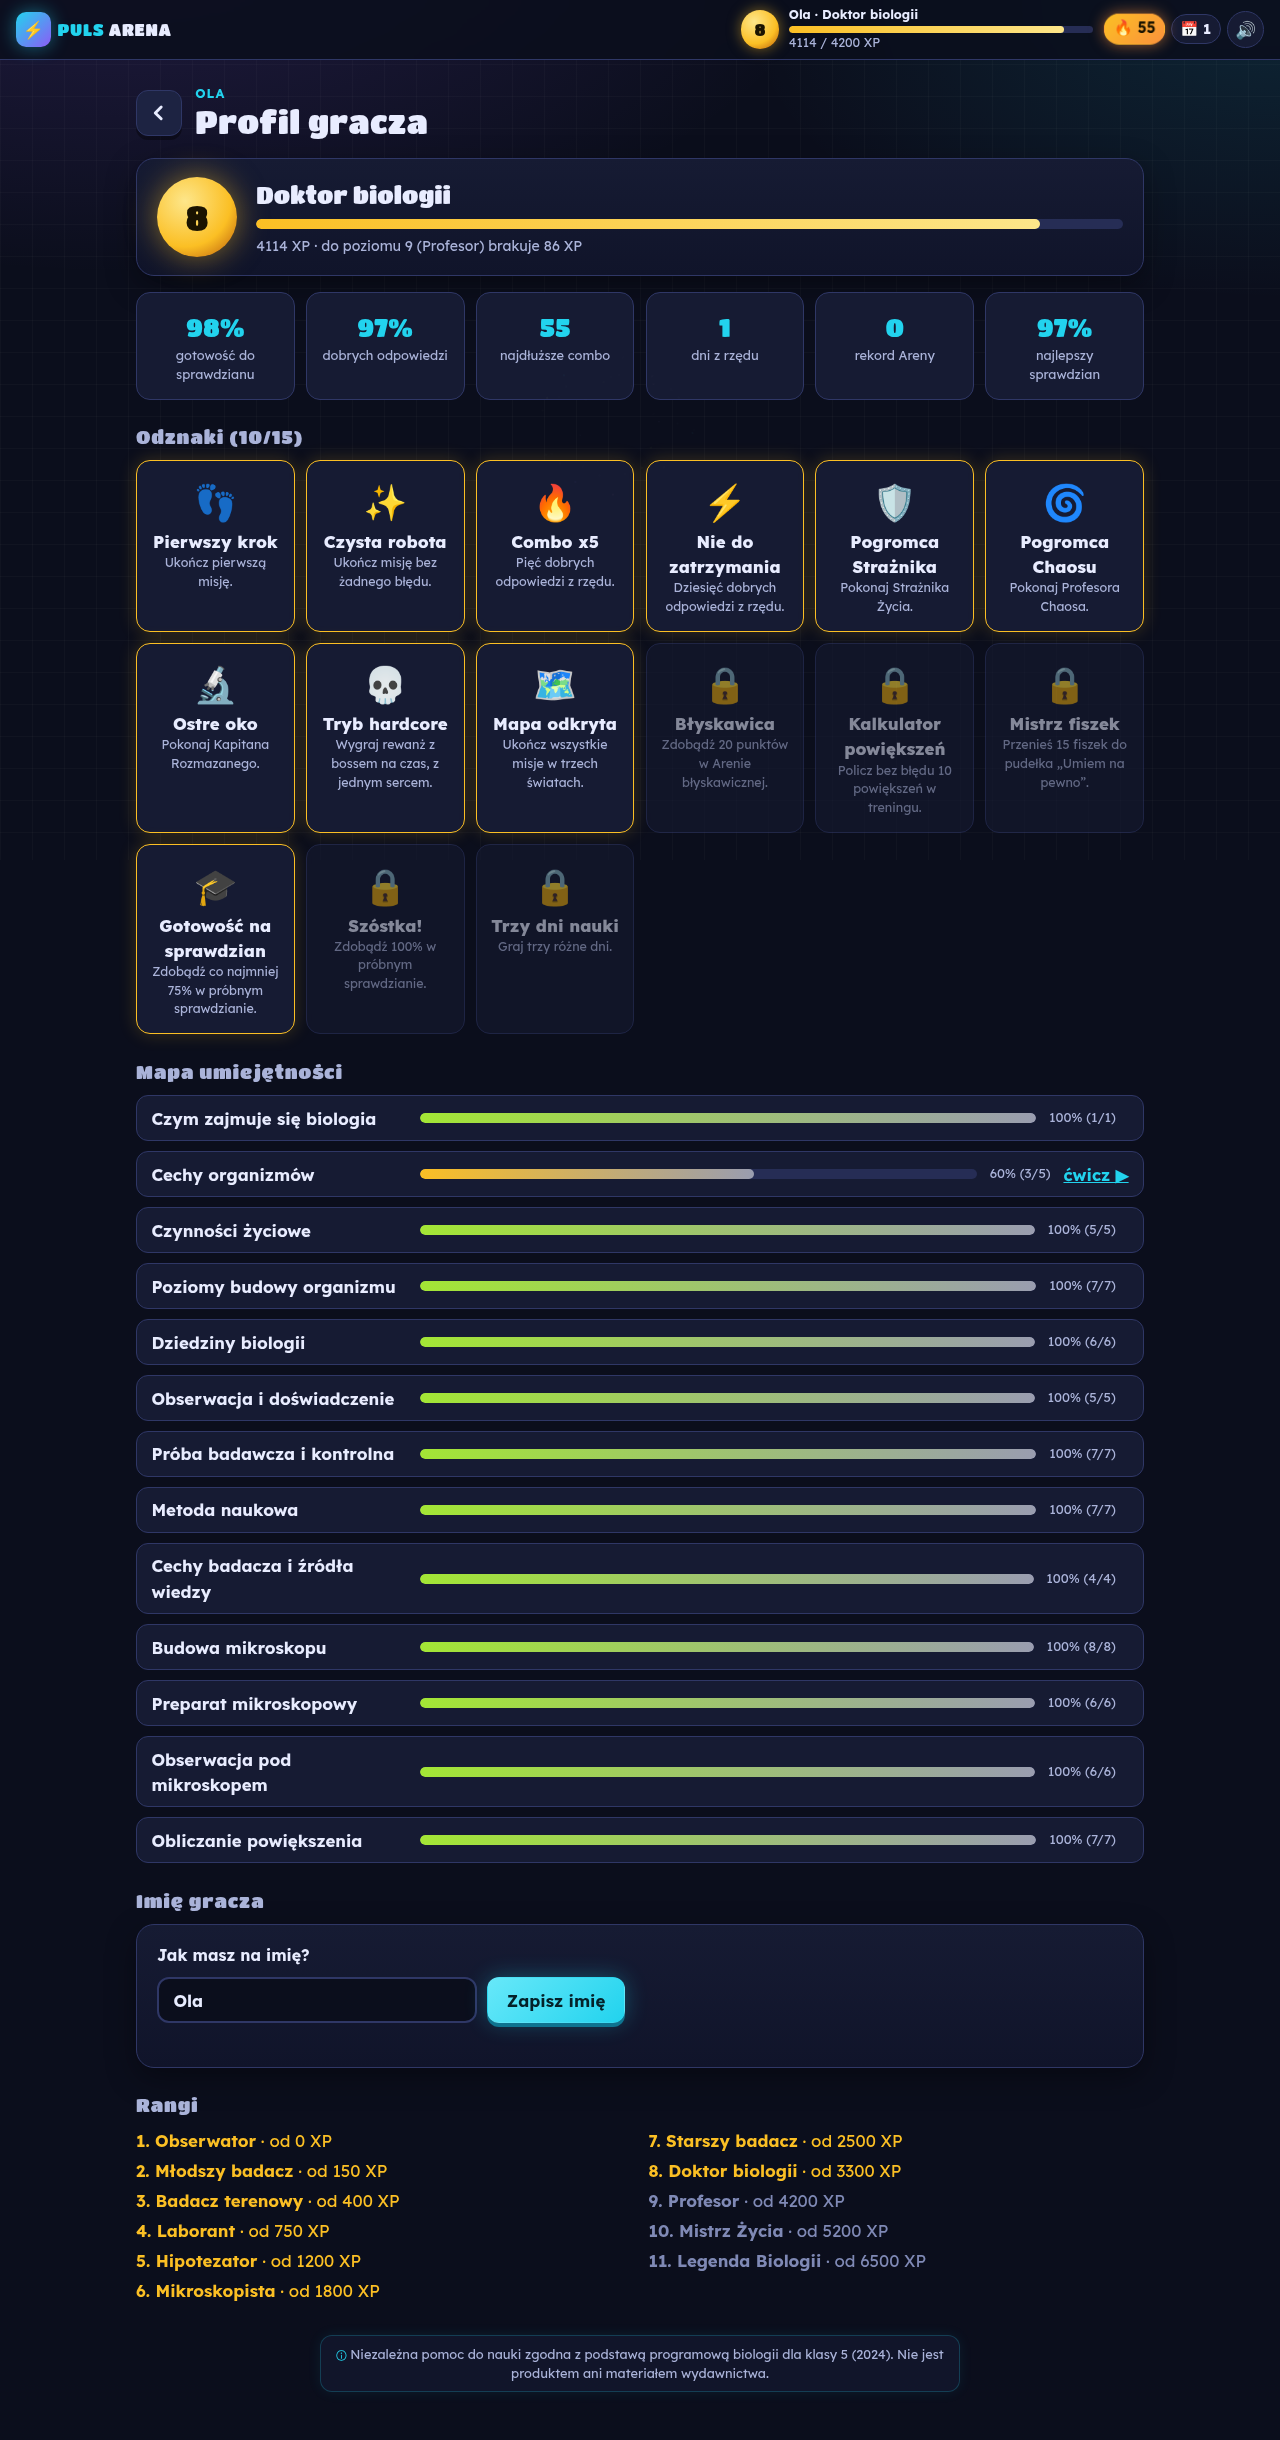
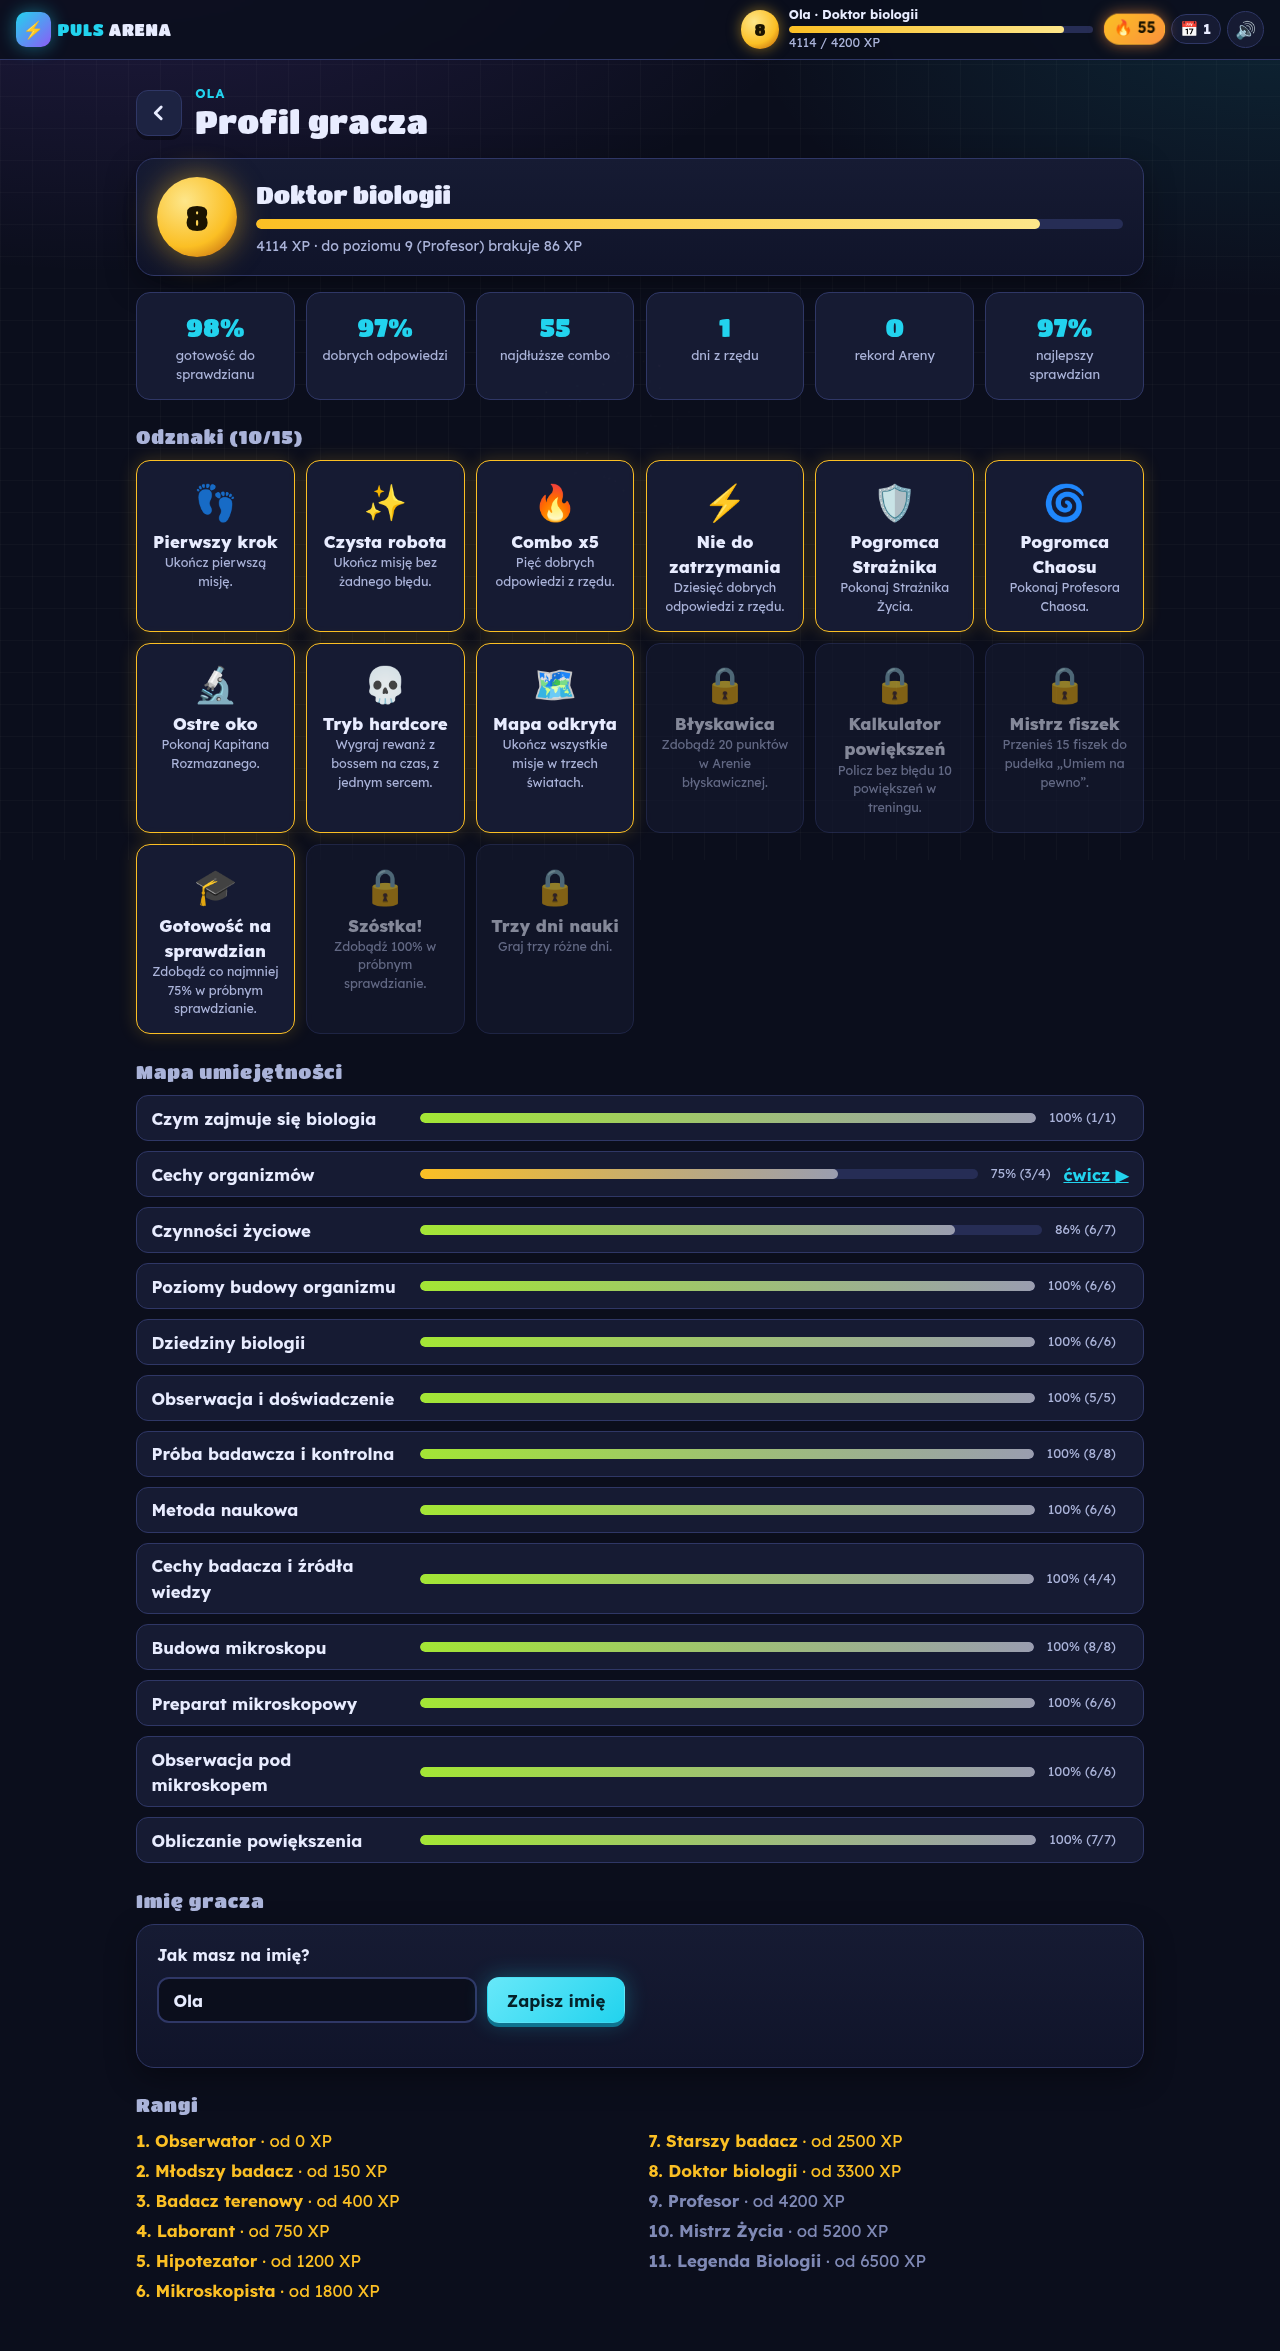
Usunięte stopki z mapy i profilu; wersja cc6e0cd571ac

diff --git a/docs/js/ekrany/mapa.js b/docs/js/ekrany/mapa.js
@@ -4,7 +4,7 @@ import { h } from '../core/dom.js';
 import { bossOdblokowany, misjeUkonczone, swiatOdblokowany } from '../core/gra.js';
 import { K, imieGracza, infoGracza } from '../kontekst.js';
 import SWIATY from '../../data/swiaty.js';
-import { gwiazdki, kafel, notaNiezaleznosci, pasekPostepu } from './wspolne.js';
+import { gwiazdki, kafel, pasekPostepu } from './wspolne.js';
 
 export function gotowosc(stan) {
   const misje = SWIATY.flatMap((s) => s.misje);
@@ -82,8 +82,6 @@ export function ekranMapy() {
       kafel({ href: '#/powtorka', ikona: '🧠', tytul: 'Powtórka', opis: 'Fiszki, pytania otwarte z kluczem, trening powiększeń, ściąga.', klasa: 'kafel--powtorka' }),
       kafel({ href: '#/profil', ikona: '🏅', tytul: 'Profil i odznaki', opis: `${Object.keys(stan.odznaki).length} odznak · mocne i słabe strony.`, klasa: 'kafel--profil' }),
     ]),
-    h('p', { class: 'stopka', tekst: 'Zadania obejmują dział I biologii dla klasy 5 (podstawa programowa 2024). Pytania i rysunki są własne.' }),
-    notaNiezaleznosci(),
   ]);
 }
 

diff --git a/docs/js/ekrany/profil.js b/docs/js/ekrany/profil.js
@@ -11,7 +11,7 @@ import ZADANIA from '../../data/zadania.js';
 import { SKALA } from '../../data/sprawdzian.js';
 import { WERSJA } from '../wersja.js';
 import { gotowosc } from './mapa.js';
-import { naglowek, notaNiezaleznosci, pasekPostepu } from './wspolne.js';
+import { naglowek, pasekPostepu } from './wspolne.js';
 
 function statystyka(wartosc, opis) {
   return h('div', { class: 'stat' }, [h('span', { class: 'stat__wartosc', tekst: String(wartosc) }), h('span', { class: 'stat__opis', tekst: opis })]);
@@ -72,7 +72,6 @@ export function ekranProfilu() {
     h('div', { class: 'karta' }, [formularzImienia({ przycisk: 'Zapisz imię', poZapisie: () => dispatchEvent(new HashChangeEvent('hashchange')) })]),
     h('h2', { class: 'sekcja__tytul', tekst: 'Rangi' }),
     h('ol', { class: 'rangi' }, RANGI.map((r, i) => h('li', { 'data-osiagnieta': String(stan.xp >= PROGI[i]) }, [h('strong', { tekst: `${i + 1}. ${r}` }), ` · od ${PROGI[i]} XP`]))),
-    notaNiezaleznosci(),
   ]);
 }
 

diff --git a/docs/css/baza.css b/docs/css/baza.css
@@ -436,33 +436,6 @@ main {
   background: linear-gradient(90deg, var(--zloto), #fde68a);
 }
 
-.stopka {
-  margin-top: 2rem;
-  font-size: 0.82rem;
-  color: var(--tekst-3);
-  text-align: center;
-}
-
-.nota-niezaleznosci {
-  max-width: 40rem;
-  margin: 0.75rem auto 0;
-  padding: 0.55rem 0.9rem;
-  border: 1px solid rgba(34, 211, 238, 0.22);
-  border-radius: var(--promien-maly);
-  background: rgba(22, 27, 51, 0.6);
-  box-shadow: 0 0 14px rgba(34, 211, 238, 0.08);
-  font-size: 0.8rem;
-  line-height: 1.45;
-  color: var(--tekst-2);
-  text-align: center;
-  overflow-wrap: break-word;
-}
-
-.nota-niezaleznosci::before {
-  content: 'ⓘ ';
-  color: var(--cyjan);
-}
-
 /* ---------- Powiadomienia, okna ---------- */
 
 .powiadomienia {
@@ -629,8 +602,4 @@ main {
 .przelacznik[aria-checked='true'] .przelacznik__galka::after {
   background: var(--cyjan);
   transform: translateX(1.4rem);
-}
-
-.ekran--profil .nota-niezaleznosci {
-  margin-top: 2rem;
 }

diff --git a/docs/js/ekrany/wspolne.js b/docs/js/ekrany/wspolne.js
@@ -41,10 +41,3 @@ export function formatCzas(sekundy) {
   const s = Math.max(0, Math.ceil(sekundy));
   return `${Math.floor(s / 60)}:${String(s % 60).padStart(2, '0')}`;
 }
-
-export const NOTA_NIEZALEZNOSCI =
-  'Niezależna pomoc do nauki zgodna z podstawą programową biologii dla klasy 5 (2024). Nie jest produktem ani materiałem wydawnictwa.';
-
-export function notaNiezaleznosci() {
-  return h('p', { class: 'nota-niezaleznosci', role: 'note', tekst: NOTA_NIEZALEZNOSCI });
-}

diff --git a/docs/sw.js b/docs/sw.js
@@ -2,7 +2,7 @@
 // WERSJA i PLIKI uzupełnia narzędzie: node tools/wersja.js (nie edytować ręcznie).
 // Każda zmiana w docs/ zmienia WERSJA, więc przeglądarka pobiera nową wersję gry.
 
-const WERSJA = 'b8d6d133dd40';
+const WERSJA = 'cc6e0cd571ac';
 const PLIKI = [
   './',
   'assets/fonts/OFL-lexend.txt',

diff --git a/docs/js/wersja.js b/docs/js/wersja.js
@@ -1,2 +1,2 @@
 // Plik generowany: node tools/wersja.js
-export const WERSJA = 'b8d6d133dd40';
+export const WERSJA = 'cc6e0cd571ac';

diff --git a/tools/e2e.py b/tools/e2e.py
@@ -98,8 +98,8 @@ with sync_playwright() as p:
     SW = page.evaluate("import('./data/swiaty.js').then(m => m.default)")
     page.wait_for_timeout(600)
     page.screenshot(path=str(ZRZUTY / '01-baza.png'), full_page=True)
-    assert page.locator('.ekran--mapa .nota-niezaleznosci, .nota-niezaleznosci').first.inner_text().strip() == NOTA, 'nota na mapie'
-    assert page.locator('.stopka').inner_text().strip() == 'Zadania obejmują dział I biologii dla klasy 5 (podstawa programowa 2024). Pytania i rysunki są własne.', 'stopka mapy'
+    assert page.locator('.stopka, .nota-niezaleznosci').count() == 0, 'brak stopek na mapie'
+    assert NOTA not in page.locator('body').inner_text() and 'Zadania obejmują dział I' not in page.locator('body').inner_text(), 'brak tekstów stopek'
     assert not re.search(r'Nowa Era|Puls życia', page.locator('body').inner_text()), 'brak nazwy wydawnictwa/podręcznika'
 
     # świat 2 zablokowany na starcie
@@ -210,7 +210,7 @@ with sync_playwright() as p:
     page.goto(f"{URL}#/sciaga"); page.wait_for_selector('.sciaga')
     page.goto(f"{URL}#/profil"); page.wait_for_selector('.odznaki'); page.wait_for_timeout(300)
     page.screenshot(path=str(ZRZUTY / '14-profil.png'), full_page=True)
-    assert page.locator('.ekran--profil .nota-niezaleznosci').inner_text().strip() == NOTA, 'nota w profilu'
+    assert page.locator('.ekran--profil .nota-niezaleznosci, .ekran--profil .stopka').count() == 0 and NOTA not in page.locator('.ekran--profil').inner_text(), 'brak stopki w profilu'
     page.goto(f"{URL}#/rodzic"); page.wait_for_selector('.rodzic__ustawienia')
     page.locator('.rodzic__ustawienia .imie__pole').fill('Kuba')
     page.locator('.rodzic__ustawienia .imie__formularz button').click()
@@ -238,9 +238,7 @@ with sync_playwright() as p:
     tp.locator('.imie__pole').fill('Zosia'); tp.locator('.imie-ekran .przycisk--glowny').click()
     tp.wait_for_selector('.swiat-karta'); tp.wait_for_timeout(600)
     tp.screenshot(path=str(ZRZUTY / '15-telefon-baza.png'))
-    tn = tp.locator('.nota-niezaleznosci'); tn.scroll_into_view_if_needed(); tp.wait_for_timeout(200)
-    bb = tn.bounding_box(); assert bb and bb['x'] >= 0 and bb['x'] + bb['width'] <= 390, f'nota mieści się na telefonie: {bb}'
-    tp.screenshot(path=str(ZRZUTY / '17-telefon-stopka.png'))
+    assert tp.locator('.stopka, .nota-niezaleznosci').count() == 0, 'brak stopek na telefonie'
     tp.goto(f"{URL}#/swiat/1/misja/m1-czynnosci"); tp.wait_for_selector('section.zadanie'); tp.wait_for_timeout(400)
     tp.screenshot(path=str(ZRZUTY / '16-telefon-zadanie.png'), full_page=True)
     b.close()
